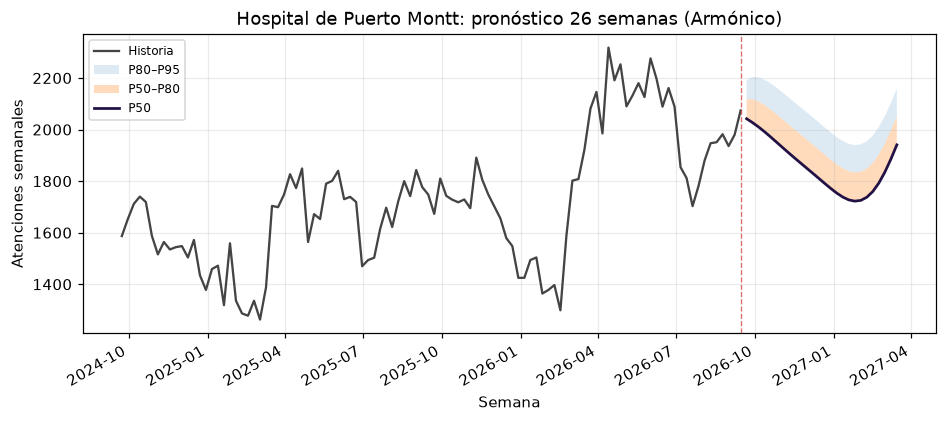
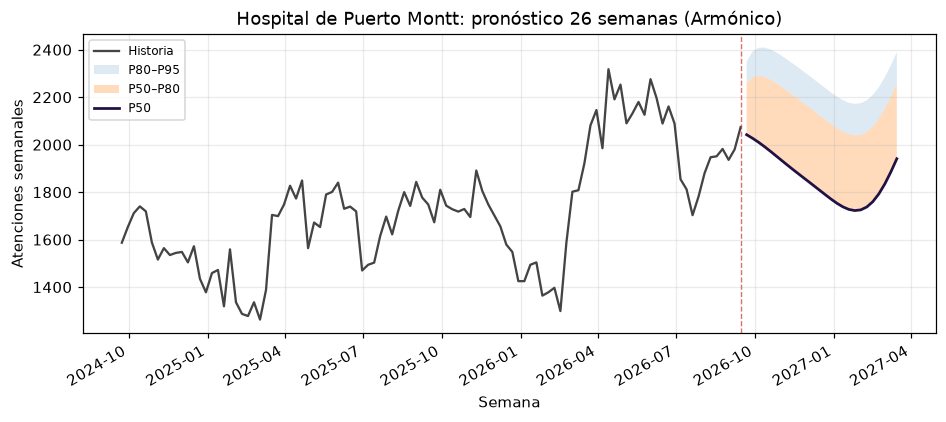
docs: README example and figures from a live run with calibrated intervals
Claude-Session: https://claude.ai/code/session_01DoGxY7nCiC8XYQScFvLY4y

diff --git a/src/urgencias_core/report.py b/src/urgencias_core/report.py
@@ -85,7 +85,7 @@ def _calibration_line(result: ForecastResult) -> str:
     widened = {c: f for c, f in result.interval_scale.items() if f >= 1.05}
     if not widened:
         return ""
-    parts = ", ".join(f"{c.upper()} x{f:.1f}" for c, f in sorted(widened.items()))
+    parts = ", ".join(f"P{c[1:]} x{f:.1f}" for c, f in sorted(widened.items()))
     return f"Intervalos del pronóstico ensanchados según ese error: {parts}."
 
 

diff --git a/README.es.md b/README.es.md
@@ -58,13 +58,14 @@ Backtest: 3 ventanas de 26 semanas, promedio (el modelo elegido se marca con *)
 | SeasonalNaive |   359 |     17.6 |         230.0 |
 +---------------+-------+----------+---------------+
 Con Armónico, el valor real quedó bajo el P80 en 24 de 78 semanas.
+Intervalos del pronóstico ensanchados según ese error: P80 x2.8, P90 x2.6, P95 x2.1.
 
 Pronóstico con Armónico: atenciones semanales
 +--------------------+-------+-------+-------+
 | Semana (termina)   |   P50 |   P80 |   P95 |
 |--------------------+-------+-------+-------|
-| 2026-09-21         |  2042 |  2118 |  2191 |
-| 2026-09-28         |  2027 |  2117 |  2204 |
+| 2026-09-21         |  2042 |  2259 |  2350 |
+| 2026-09-28         |  2027 |  2284 |  2393 |
 | ...                |       |       |       |
 ```
 

diff --git a/README.md b/README.md
@@ -58,13 +58,14 @@ Backtest: 3 ventanas de 26 semanas, promedio (el modelo elegido se marca con *)
 | SeasonalNaive |   359 |     17.6 |         230.0 |
 +---------------+-------+----------+---------------+
 Con Armónico, el valor real quedó bajo el P80 en 24 de 78 semanas.
+Intervalos del pronóstico ensanchados según ese error: P80 x2.8, P90 x2.6, P95 x2.1.
 
 Pronóstico con Armónico: atenciones semanales
 +--------------------+-------+-------+-------+
 | Semana (termina)   |   P50 |   P80 |   P95 |
 |--------------------+-------+-------+-------|
-| 2026-09-21         |  2042 |  2118 |  2191 |
-| 2026-09-28         |  2027 |  2117 |  2204 |
+| 2026-09-21         |  2042 |  2259 |  2350 |
+| 2026-09-28         |  2027 |  2284 |  2393 |
 | ...                |       |       |       |
 ```
 
